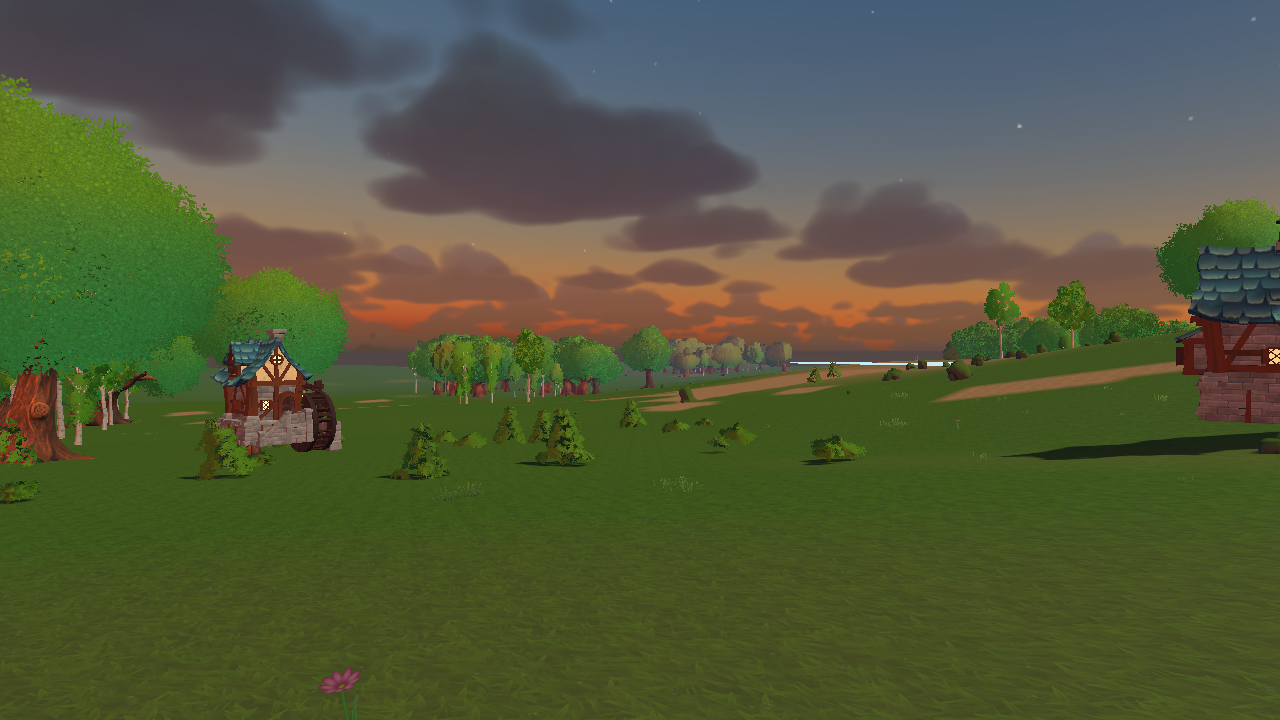
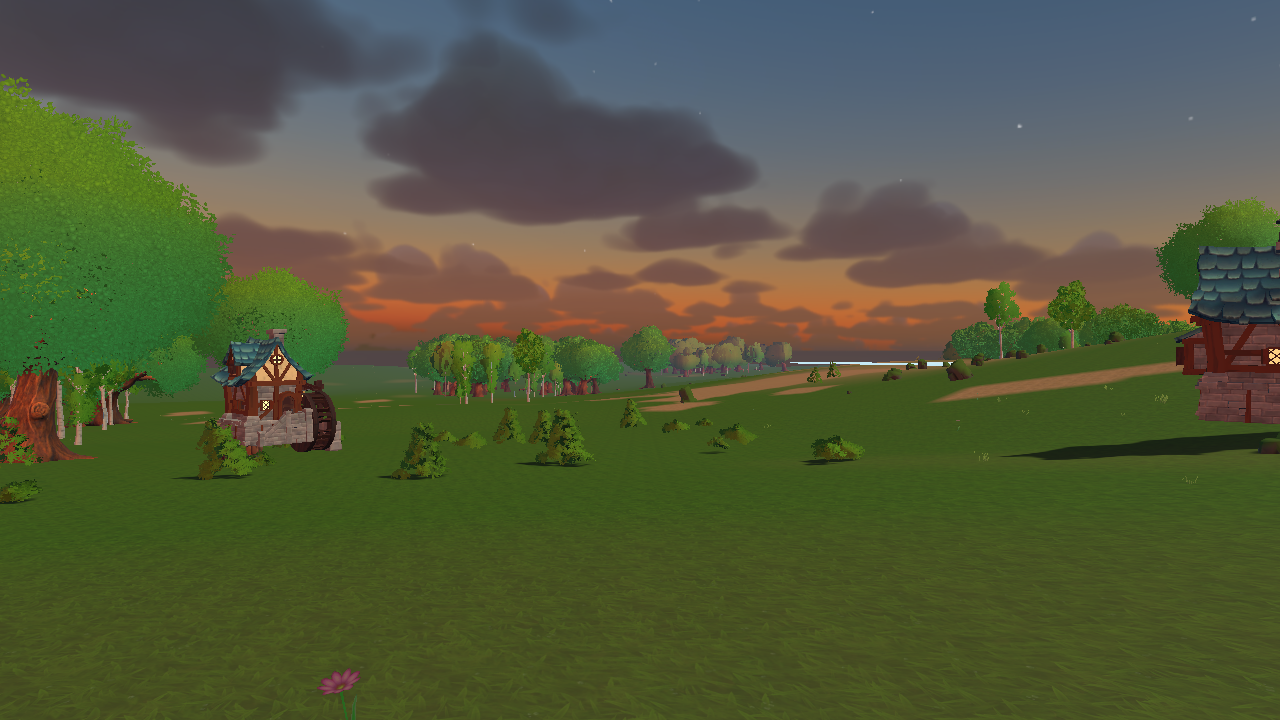
TD-110: THE MEADOW COST ONE DRAW CALL PER BLADE — 8,427 to 2,487 (D-224)
The measurement from D-223 was blunt: 8,810 renderers producing 8,427 draw calls — ONE CALL PER
RENDERER, i.e. nothing batched at all — and the 6,255 grass tufts were nearly all of it. They exist
as separate objects only because Unity's terrain detail system would not draw them (D-215d). That
decision saved the picture and MOVED THE COST HERE, which was the right trade at the time and the
wrong place to leave it.

The remedy is the cheapest kind: MERGE THEM. Tufts never move, never animate and never respond to
state, so a block of them is one mesh as truthfully as it is six hundred. Combined per 48 m block —
coarse enough to collapse the count, fine enough that frustum culling still throws most of the
meadow away.

Merging happens AFTER placement rather than instead of it, so the grounding, bedding and tilt laws
stay exactly one implementation and not a blade moves. The picture is byte-identical.

MEASURED BEFORE AND AFTER, from the same declared eye-level pose:
  renderers   8,810 -> 3,212
  draw calls  8,427 -> 2,487      (under the A6 budget of 2,500)
  triangles   1,422k -> 1,137k
  tufts       6,255 objects -> 662 meshes

The A6 budget was set against a GTX 1660-class min spec. What was owed before min-spec is therefore
paid before min-spec rather than after it.

One detail worth keeping: the combined meshes are set to 32-bit indices rather than 16, because a
48 m block of tufts can exceed 65,535 vertices — and a merge that silently truncates is how an
[…]

diff --git a/Assets/Emergence/Fas3/Runtime/Fas3NatureScatter.cs b/Assets/Emergence/Fas3/Runtime/Fas3NatureScatter.cs
@@ -69,6 +69,8 @@ namespace Emergence.Runtime
             { LastNote = "no nature prefabs in the catalog — run BUILD ASSET CATALOG"; yield break; }
 
             int budget = 0, treeN = 0, rockN = 0, bushN = 0, trunkN = 0, tuftN = 0;
+            var tuftRoot = new GameObject("Tufts").transform;
+            tuftRoot.SetParent(parent, false);
             for (int y = 0; y < S.H; y++)
                 for (int x = 0; x < S.W; x++)
                 {
@@ -97,17 +99,89 @@ namespace Emergence.Runtime
                     else if (t == 's' && rocks.Count > 0) rockN += Place(S, parent, rocks, x, y, RocksPerStoneTile, 43, ref budget, Bed.Boulder, true);
                     else if (t == 'b' && bushes.Count > 0) bushN += Place(S, parent, bushes, x, y, BushesPerBerryTile, 47, ref budget, Bed.Shrub, true);
 
-                    // grass tufts on open meadow and forest floor - the ground the player walks on
+                    // grass tufts on open meadow and forest floor - the ground the player walks on.
+                    // Kept under their OWN parent so the batching pass can find them without guessing.
                     if ((t == 'g' || t == 'f') && tufts.Count > 0)
-                        tuftN += Place(S, parent, tufts, x, y, TuftsPerMeadowTile, 59, ref budget, Bed.Tuft, true);
+                        tuftN += Place(S, tuftRoot, tufts, x, y, TuftsPerMeadowTile, 59, ref budget, Bed.Tuft, true);
 
                     if (budget >= PlacementsPerFrame) { budget = 0; yield return null; }
                 }
 
+            // D-224: THE MEADOW COST ONE DRAW CALL PER BLADE.
+            //
+            // The probe priced the world honestly for the first time and the number was blunt: 8 810
+            // renderers producing 8 427 draw calls — one call per renderer, i.e. NOTHING batched —
+            // and the 6 255 tufts were nearly all of it. They exist as separate objects only because
+            // Unity's terrain detail system would not draw them (D-215d): that decision saved the
+            // picture and moved the cost here, which was the right trade at the time and is not the
+            // right place to leave it.
+            //
+            // The remedy is the cheapest kind: MERGE THEM. Tufts never move, never animate and never
+            // respond to state, so a block of them is one mesh as truthfully as it is six hundred.
+            // Combining per 48 m block turns ~6 255 renderers into a few hundred without changing a
+            // single blade's position — the placement law above is untouched, and the picture is
+            // byte-identical. Merging is done AFTER placement rather than instead of it, so the
+            // grounding, bedding and tilt laws stay exactly one implementation.
+            int tuftDrawn = CombineTufts(tuftRoot);
+
             Placed = treeN + rockN + bushN + trunkN + tuftN;
             LastNote = "nature: " + treeN + " trees, " + rockN + " rocks, " + bushN + " bushes, " + trunkN + " fallen trunks, "
-                     + tuftN + " grass tufts"
+                     + tuftN + " grass tufts merged into " + tuftDrawn + " meshes"
                      + "  (sets: " + trees.Count + "/" + rocks.Count + "/" + bushes.Count + "/" + tufts.Count + ")";
+        }
+
+        /// <summary>Merge the scattered tufts into one mesh per (block, material). Blocks are 48 m,
+        /// which is coarse enough to collapse the count and fine enough that frustum culling still
+        /// throws most of the meadow away. Returns the number of renderers left standing.</summary>
+        const float TuftBlock = 48f;
+
+        static int CombineTufts(Transform root)
+        {
+            if (root == null || root.childCount == 0) return 0;
+
+            var groups = new Dictionary<string, List<CombineInstance>>();
+            var mats = new Dictionary<string, Material>();
+            var doomed = new List<GameObject>();
+
+            for (int i = 0; i < root.childCount; i++)
+            {
+                var ch = root.GetChild(i);
+                doomed.Add(ch.gameObject);
+                foreach (var mf in ch.GetComponentsInChildren<MeshFilter>())
+                {
+                    if (mf.sharedMesh == null) continue;
+                    var mr = mf.GetComponent<MeshRenderer>();
+                    if (mr == null || mr.sharedMaterial == null || !mr.enabled) continue;
+                    var p = mf.transform.position;
+                    string key = Mathf.FloorToInt(p.x / TuftBlock) + "_" + Mathf.FloorToInt(p.z / TuftBlock)
+                               + "_" + mr.sharedMaterial.name;
+                    if (!groups.TryGetValue(key, out var list)) { list = new List<CombineInstance>(); groups[key] = list; mats[key] = mr.sharedMaterial; }
+                    list.Add(new CombineInstance { mesh = mf.sharedMesh, transform = mf.transform.localToWorldMatrix });
+                }
+            }
+
+            int made = 0;
+            foreach (var kv in groups)
+            {
+                if (kv.Value.Count == 0) continue;
+                var mesh = new Mesh { name = "Meadow_" + kv.Key };
+                // a 48 m block of tufts can exceed 65 535 vertices; say so in the format rather than
+                // silently truncating the meadow, which is how a merge quietly eats geometry.
+                mesh.indexFormat = UnityEngine.Rendering.IndexFormat.UInt32;
+                mesh.CombineMeshes(kv.Value.ToArray(), true, true);
+                mesh.RecalculateBounds();
+
+                var go = new GameObject("Meadow_" + made);
+                go.transform.SetParent(root, false);
+                go.AddComponent<MeshFilter>().sharedMesh = mesh;
+                var mr = go.AddComponent<MeshRenderer>();
+                mr.sharedMaterial = mats[kv.Key];
+                mr.shadowCastingMode = UnityEngine.Rendering.ShadowCastingMode.Off;   // a blade casts nothing worth the cost
+                made++;
+            }
+
+            foreach (var g in doomed) if (g != null) Object.DestroyImmediate(g);
+            return made;
         }
 
         static List<GameObject> Resolve(EmergenceAssetCatalog cat, string[] names)
